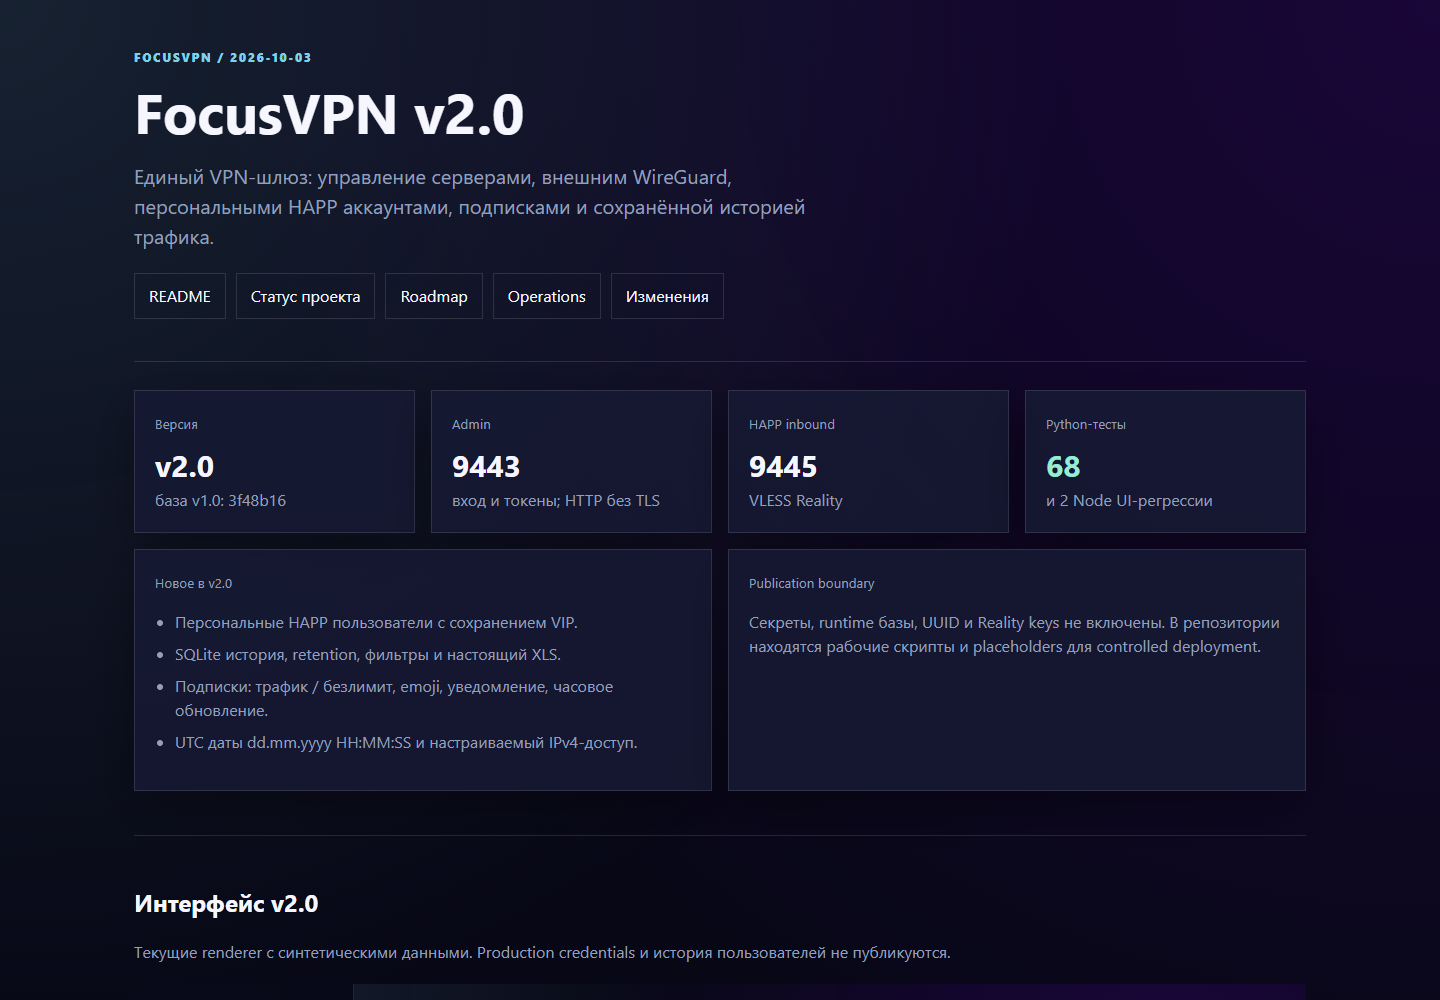
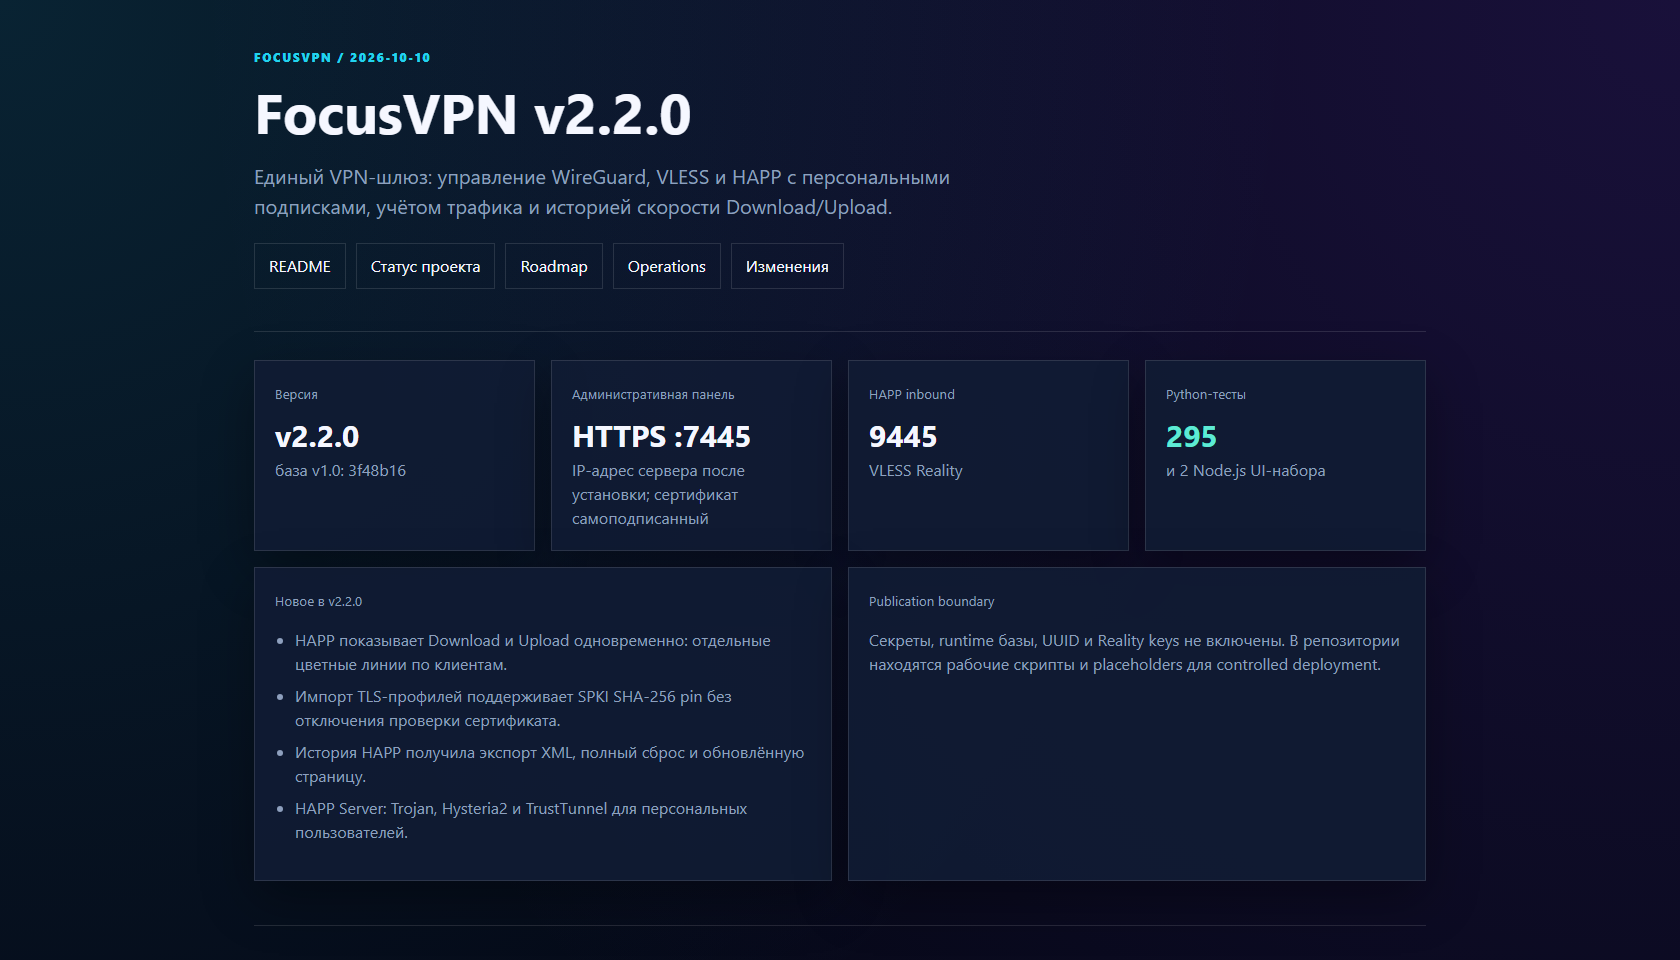
Refresh README screenshots for v2.2.0

diff --git a/index.html b/index.html
@@ -3,7 +3,7 @@
 <head>
   <meta charset="utf-8">
   <meta name="viewport" content="width=device-width, initial-scale=1">
-  <title>FocusVPN v2.1.7 | Статус проекта</title>
+  <title>FocusVPN v2.2.0 | Статус проекта</title>
   <style>
     :root { --bg:#050816; --surface:#111b34e8; --text:#f5f7ff; --muted:#8ea0be; --line:#ffffff1f; --cyan:#22d3ee; --violet:#7c3aed; --ok:#5eead4; }
     * { box-sizing:border-box; }
@@ -33,20 +33,20 @@
 <body>
   <main class="shell">
     <section class="hero">
-      <div class="eyebrow">FocusVPN / 2026-10-06</div>
-      <h1>FocusVPN v2.1.7</h1>
-      <p class="lead">Единый VPN-шлюз: управление серверами, внешним WireGuard, персональными HAPP аккаунтами, подписками и сохранённой историей трафика.</p>
+      <div class="eyebrow">FocusVPN / 2026-10-10</div>
+      <h1>FocusVPN v2.2.0</h1>
+      <p class="lead">Единый VPN-шлюз: управление WireGuard, VLESS и HAPP с персональными подписками, учётом трафика и историей скорости Download/Upload.</p>
       <div class="links"><a href="README.md">README</a><a href="docs/PROJECT_STATUS.md">Статус проекта</a><a href="docs/ROADMAP.md">Roadmap</a><a href="docs/OPERATIONS.md">Operations</a><a href="docs/CHANGELOG.md">Изменения</a></div>
     </section>
     <section class="grid">
-      <article class="card"><small>Версия</small><strong>v2.1.7</strong><span class="muted">база v1.0: 3f48b16</span></article>
+      <article class="card"><small>Версия</small><strong>v2.2.0</strong><span class="muted">база v1.0: 3f48b16</span></article>
           <article class="card"><small>Административная панель</small><strong>HTTPS :7445</strong><span class="muted">IP-адрес сервера после установки; сертификат самоподписанный</span></article>
       <article class="card"><small>HAPP inbound</small><strong>9445</strong><span class="muted">VLESS Reality</span></article>
-      <article class="card"><small>Python-тесты</small><strong class="status">130</strong><span class="muted">и 2 Node.js UI-проверки</span></article>
-      <article class="card wide"><small>Новое в v2.1.7</small><ul><li>Действия VPN-сервера собраны в одну строку на desktop/mobile.</li><li>Мастер HAPP генерирует ключи и запускает сервер после подтверждения.</li><li>UUID VIP уникален; персональные пользователи сохраняются при обновлении.</li><li>Git-обновление тестового сервера проверено без изменения рабочих ключей.</li></ul></article>
+      <article class="card"><small>Python-тесты</small><strong class="status">295</strong><span class="muted">и 2 Node.js UI-набора</span></article>
+      <article class="card wide"><small>Новое в v2.2.0</small><ul><li>HAPP показывает Download и Upload одновременно: отдельные цветные линии по клиентам.</li><li>Импорт TLS-профилей поддерживает SPKI SHA-256 pin без отключения проверки сертификата.</li><li>История HAPP получила экспорт XML, полный сброс и обновлённую страницу.</li><li>HAPP Server: Trojan, Hysteria2 и TrustTunnel для персональных пользователей.</li></ul></article>
       <article class="card wide"><small>Publication boundary</small><p class="muted">Секреты, runtime базы, UUID и Reality keys не включены. В репозитории находятся рабочие скрипты и placeholders для controlled deployment.</p></article>
     </section>
-    <section class="section"><h2>Интерфейс</h2><p class="muted">Скриншоты v2.0 собраны с renderer и синтетических данных. Production credentials и пользовательская история не публикуются.</p><img class="screenshot" src="docs/screenshots/wireguard-and-happ-preview.png" alt="Персональные пользователи HAPP и статистика"><img class="screenshot" src="docs/screenshots/happ-history.png" alt="История HAPP с фильтрами и экспортом XLS"></section>
+    <section class="section"><h2>Интерфейс</h2><p class="muted">Скриншоты v2.2.0 собраны с renderer и обезличенными fixtures. Production credentials и пользовательская история не публикуются.</p><img class="screenshot" src="docs/screenshots/wireguard-and-happ-preview.png" alt="Персональные пользователи HAPP и график Download/Upload"><img class="screenshot" src="docs/screenshots/happ-history.png" alt="HAPP история с фильтрами, графиком и экспортом"></section>
     <section class="section"><h2>Границы проверки</h2><p class="muted">Наблюдаемые счётчики не являются точным биллингом. Импорт внутри Windows HAPP, доставка Mattermost и внешний WireGuard egress требуют отдельной клиентской или сетевой проверки. Панель доступна по HTTPS на адресе IP установленного сервера и порту 7445; для IP используется самоподписанный сертификат. Backend HTTP 9443 слушает только loopback за Nginx; setup API wg-easy 51821 извне закрыт.</p></section>
   </main>
 </body>

diff --git a/scripts/render_previews.py b/scripts/render_previews.py
@@ -11,6 +11,26 @@ from urllib.parse import parse_qs, urlsplit
 
 ROOT = Path(__file__).resolve().parents[1]
 sys.path.insert(0, str(ROOT / 'server' / 'panel'))
+CHART_AT = int(dt.datetime.now(dt.timezone.utc).timestamp() * 1000)
+MB = 1024 * 1024
+
+
+def chart_points(values):
+    offsets = (570000, 510000, 420000, 330000, 240000, 150000, 60000, 0)
+    return [{'x': CHART_AT - offset, 'y': value} for offset, value in zip(offsets, values)]
+
+
+TRAFFIC_HISTORY = {
+    'download': [
+        {'user_key': 'personal-demo-a', 'user_name': 'demo-dev-01', 'peak_bytes_per_second': 7.4 * MB, 'points': chart_points((2.8, 3.6, 3.1, 5.2, 7.4, 4.1, 5.6, 3.2))},
+        {'user_key': 'personal-demo-b', 'user_name': 'demo-dev-02', 'peak_bytes_per_second': 4.5 * MB, 'points': chart_points((1.1, 1.4, 2.5, 1.8, 4.5, 2.1, 3.2, 1.4))},
+    ],
+    'upload': [
+        {'user_key': 'personal-demo-a', 'user_name': 'demo-dev-01', 'peak_bytes_per_second': 2.8 * MB, 'points': chart_points((0.7, 1.1, 0.9, 2.1, 1.4, 2.8, 1.7, 0.9))},
+        {'user_key': 'personal-demo-b', 'user_name': 'demo-dev-02', 'peak_bytes_per_second': 1.7 * MB, 'points': chart_points((0.3, 0.6, 0.5, 1.2, 0.8, 1.7, 1.0, 0.5))},
+    ],
+}
+
 if sys.platform == 'win32':
     import types
     sys.modules.setdefault('grp', types.ModuleType('grp'))
@@ -21,10 +41,16 @@ from happ_history import HappHistory
 from happ_history_ui import render_history
 
 LIVE = {
+    'sampled_at': dt.datetime.fromtimestamp(CHART_AT / 1000, tz=dt.timezone.utc).isoformat(),
     'online_count': 1, 'download': '3.0 MB', 'upload': '192.0 KB',
     'connections': [{'user_name': 'demo-dev-01', 'ip': '203.0.113.24', 'duration': '18 мин.', 'download': '3.0 MB', 'upload': '192.0 KB', 'network': 'TCP', 'destination': 'example.com:443'}],
-    'users': [{'user_name': 'demo-dev-01', 'connections': 1, 'download': '3.0 MB', 'upload': '192.0 KB'}],
+    'traffic_samples': [{'id': 'demo-live-a', 'user_key': 'personal-demo-a', 'download_bytes': 67108864, 'upload_bytes': 8388608}],
+    'users': [{'user_key': 'personal-demo-a', 'user_name': 'demo-dev-01', 'connections': 1, 'download': '3.0 MB', 'upload': '192.0 KB'}],
     'account_traffic': {'personal-demo-a': {'download': '64.0 MB', 'upload': '8.0 MB'}, 'personal-demo-b': {'download': '12.0 MB', 'upload': '1.0 MB'}},
+    'activity': {'fresh': True, 'seconds': 5, 'sampled_at': CHART_AT, 'users': [
+        {'user_key': 'personal-demo-a', 'user_name': 'demo-dev-01', 'status': 'active', 'connections': 1, 'ips': ['203.0.113.24'], 'download_bytes': 67108864, 'upload_bytes': 8388608, 'download_rate': 3.2 * MB, 'upload_rate': 0.9 * MB, 'download_peak': 7.4 * MB, 'upload_peak': 2.8 * MB},
+        {'user_key': 'personal-demo-b', 'user_name': 'demo-dev-02', 'status': 'active', 'connections': 1, 'ips': ['203.0.113.25'], 'download_bytes': 12582912, 'upload_bytes': 1048576, 'download_rate': 1.4 * MB, 'upload_rate': 0.5 * MB, 'download_peak': 4.5 * MB, 'upload_peak': 1.7 * MB},
+    ]},
 }
 CHECKS = {'checks': [
     {'tag': 'demo-vless', 'state': 'success', 'message': 'Внешний IP: 203.0.113.10', 'latency_ms': 83.4, 'checked_at': '2026-10-03T09:15:23+00:00'},
@@ -65,14 +91,15 @@ def main():
     pages = render_pages()
     if arguments.crm_embed:
         pages = {route: app.crm_embed(content) for route, content in pages.items()}
-    preview = pages['/happ-server'].replace('/panel.css?v=26', '../server/panel/static/panel.css').replace('/favicon.svg?v=1', '../server/panel/static/favicon.svg').replace('/favicon.png', '../server/panel/static/favicon.png').replace('/panel.js?v=20', '../server/panel/static/panel.js').replace('/happ-actions.js?v=9', '../server/panel/static/happ-actions.js')
+    preview = pages['/happ-server'].replace('/panel.css?v=2.2.0-happ-dual-ul-dl', '../server/panel/static/panel.css').replace('/favicon.svg?v=1', '../server/panel/static/favicon.svg').replace('/favicon.png', '../server/panel/static/favicon.png').replace('/panel.js?v=2.2.0-happ-dual-ul-dl', '../server/panel/static/panel.js').replace('/happ-actions.js?v=10', '../server/panel/static/happ-actions.js')
     if arguments.output_dir:
         arguments.output_dir.mkdir(parents=True, exist_ok=True)
         for route, content in pages.items():
             (arguments.output_dir / (route.strip('/') + '.html')).write_text(content, encoding='utf-8')
     else:
         (ROOT / 'docs' / 'ui-preview.html').write_text(preview, encoding='utf-8')
-    assert 'v2.1' in preview and 'data-happ-account="personal-demo-a"' in preview
+    assert 'v2.2.0' in preview and 'data-happ-account="personal-demo-a"' in preview
+    assert 'HAPP история' in pages['/happ-history']
     assert '03.10.2026 09:15:23' in pages['/happ-history']
     print('safe renderer previews generated', flush=True)
     if not arguments.serve:
@@ -156,8 +183,17 @@ def main():
                     content, kind = pages[path].encode('utf-8'), 'text/html; charset=utf-8'
                 elif path in ('/happ-server/live', '/outbounds/checks'):
                     content, kind = json.dumps(LIVE if path == '/happ-server/live' else CHECKS, ensure_ascii=False).encode('utf-8'), 'application/json; charset=utf-8'
+                elif path == '/happ-server/traffic':
+                    query = parse_qs(parsed.query)
+                    direction = query.get('direction', ['download'])[0]
+                    minutes = int(query.get('minutes', ['10'])[0])
+                    if direction not in TRAFFIC_HISTORY or minutes not in (10, 30, 60, 90):
+                        self.send_error(400)
+                        return
+                    payload = {'minutes': minutes, 'direction': direction, 'since': CHART_AT - minutes * 60000, 'until': CHART_AT, 'sampled_at': CHART_AT, 'user_count': 2, 'users': TRAFFIC_HISTORY[direction]}
+                    content, kind = json.dumps(payload, ensure_ascii=False).encode('utf-8'), 'application/json; charset=utf-8'
                 else:
-                    assets = {'/panel.css': ('server/panel/static/panel.css', 'text/css'), '/panel.js': ('server/panel/static/panel.js', 'text/javascript'), '/happ-actions.js': ('server/panel/static/happ-actions.js', 'text/javascript'), '/favicon.png': ('server/panel/static/favicon.png', 'image/png'), '/': ('index.html', 'text/html; charset=utf-8')}
+                    assets = {'/panel.css': ('server/panel/static/panel.css', 'text/css'), '/panel.js': ('server/panel/static/panel.js', 'text/javascript'), '/chart.js': ('server/panel/static/chart.js', 'text/javascript'), '/happ-actions.js': ('server/panel/static/happ-actions.js', 'text/javascript'), '/favicon.svg': ('server/panel/static/favicon.svg', 'image/svg+xml'), '/favicon.png': ('server/panel/static/favicon.png', 'image/png'), '/': ('index.html', 'text/html; charset=utf-8')}
                     if arguments.crm_embed:
                         assets['/happ-qr'] = ('server/panel/static/favicon.png', 'image/png')
                     if path in assets:

diff --git a/README.md b/README.md
@@ -167,7 +167,7 @@ try {
 
 ## Screenshots
 
-Скриншоты сняты с серверных renderer и обезличенных fixtures, не с реальных пользовательских данных. UI-снимки отражают v2.0 и не включают последние карточки обзора сервера, историю chart и новые блоки Настроек v2.1.9; они не подтверждают доступность VPN-профилей или импорт внутри Windows HAPP.
+Скриншоты v2.2.0 сняты с актуальных серверных renderer и обезличенных fixtures, не с реальных пользовательских данных. Они показывают интерфейс HAPP с совместным графиком Download/Upload, текущую страницу истории и TLS pin в импорте серверов; снимки не подтверждают сетевую доступность VPN-профилей или импорт внутри Windows HAPP.
 
 ![Project overview](docs/screenshots/project-overview.png)
 
